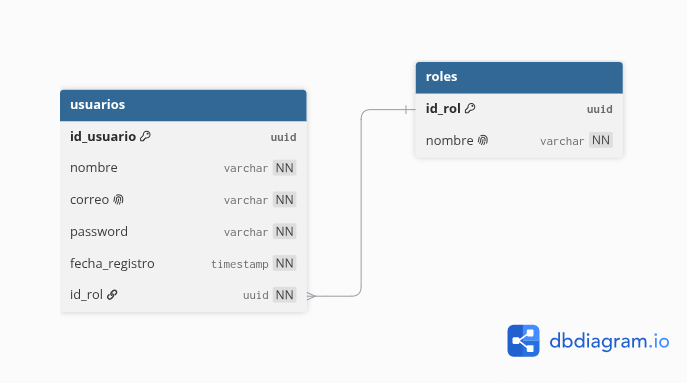
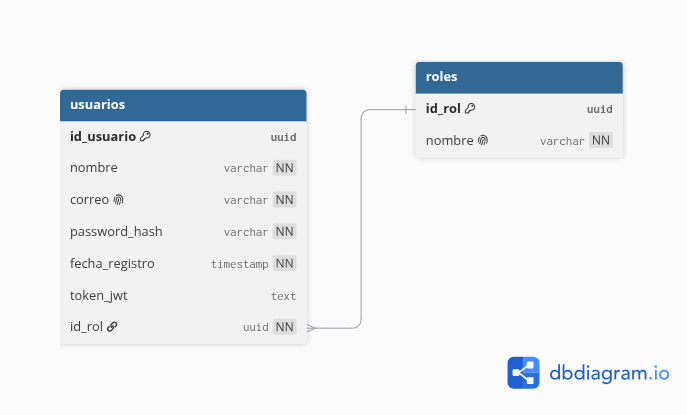
docs:202102771:Diagrama Corregido

diff --git a/Practica1/Doc/ER/DiagramasER.md b/Practica1/Doc/ER/DiagramasER.md
@@ -9,7 +9,7 @@ Los dominios definidos fueron los siguientes:
 - Manejo de funciones y cartelera
 - Manejo de reservas y asientos
 - Manejo de pagos
-- Manejo de notificaciones
+- Manejo de ubicaciones
 
 Para la elaboración de los diagramas entidad-relación se utilizó la herramienta dbdiagram.io, permitiendo modelar de forma visual las entidades, relaciones y restricciones definidas para cada servicio.
 
@@ -61,6 +61,7 @@ Responsabilidades:
 * Mantener información básica del usuario
 * Asociar usuarios a un rol específico
 * Proporcionar identificadores únicos utilizados por otros servicios
+* Mantener tokens de autenticación activos
 
 Los usuarios registrados dentro de esta tabla podrán interactuar con las funcionalidades principales del sistema, como realizar reservas, efectuar pagos y recibir notificaciones.
 
@@ -71,6 +72,7 @@ Campos principales almacenados:
 * Correo electrónico
 * Contraseña cifrada
 * Fecha de registro
+* Token JWT
 * Rol asociado
 
 Relación:
@@ -534,127 +536,7 @@ Confirmar compra
 
 La separación de este servicio permite mantener aislada la lógica financiera, facilitando futuras modificaciones o integraciones sin afectar el resto de componentes del sistema.
 
-### 5. Manejo de Notificaciones
-
-Para la comunicación con los usuarios se implementó un servicio independiente encargado de generar y enviar notificaciones relacionadas con eventos importantes dentro de la plataforma.
-
-Este servicio funciona de manera desacoplada, consumiendo información generada por otros módulos y notificando cambios relevantes a los usuarios registrados.
-
-Las tablas utilizadas para este módulo fueron:
-
-* Plantillas
-* Notificaciones
-
-![alt text](05-ER_NOTIFICACIONES.png)
-
-#### Tabla Plantillas
-
-La tabla **plantillas** almacena estructuras reutilizables para los mensajes generados dentro del sistema.
-
-Responsabilidades:
-
-* Estandarizar mensajes enviados
-* Reutilizar contenido frecuente
-* Facilitar generación automática de mensajes
-
-Ejemplos de plantillas:
-
-* Pago Aprobado
-* Reserva Confirmada
-* Compra Rechazada
-* Boleto Generado
-
-Relación:
-
-```text id="m2x8gh"
-Plantillas (1) -------- (N) Notificaciones
-```
-
----
-
-#### Tabla Notificaciones
-
-La tabla **notificaciones** representa cada mensaje generado y enviado hacia los usuarios.
-
-Responsabilidades:
-
-* Registrar envíos realizados
-* Mantener historial de notificaciones
-* Asociar mensajes con usuarios
-* Controlar estado de envío
-
-Estados posibles:
-
-* Pendiente
-* Enviada
-* Error
-
-Información almacenada:
-
-* Usuario asociado
-* Plantilla utilizada
-* Estado del envío
-* Fecha de creación
-
-Relación:
-
-```text id="d4j7ts"
-Plantillas (1) -------- (N) Notificaciones
-```
-
----
-
-#### Relación con otros servicios
-
-Este servicio recibe información generada por otros módulos utilizando identificadores externos.
-
-Servicios relacionados:
-
-* Servicio de Usuarios → obtiene información del cliente
-* Servicio de Reservas → recibe confirmaciones o expiraciones
-* Servicio de Pagos → recibe estados de pago
-* Servicio de Cartelera → utiliza información relacionada con funciones y boletos
-
-Este desacoplamiento permite que las notificaciones funcionen independientemente del resto del sistema.
-
----
-
-#### Eventos que generan notificaciones
-
-Algunos eventos importantes procesados por este servicio son:
-
-```text id="u4h5zv"
-Reserva confirmada
-
-Reserva expirada
-
-Pago aprobado
-
-Pago rechazado
-
-Boleto generado
-```
-
----
-
-#### Flujo general de notificaciones
-
-```text id="w9j1kr"
-Evento recibido
-↓
-Seleccionar plantilla
-↓
-Construir mensaje
-↓
-Enviar notificación
-↓
-Guardar resultado
-```
-
-La separación de este servicio permite centralizar toda la lógica relacionada con comunicación hacia usuarios, facilitando futuras ampliaciones o cambios en los mecanismos de envío.
-
-
-### 6. Manejo de Locaciones
+### 5. Manejo de Locaciones
 
 Para la administración de ubicaciones físicas se implementó un servicio independiente encargado de gestionar la información relacionada con ciudades y complejos cinematográficos disponibles dentro de la plataforma.
 
@@ -738,4 +620,6 @@ Consumir desde otros servicios
 ```
 
 El objetivo principal de este servicio es centralizar la información relacionada con ubicaciones físicas, facilitando futuras expansiones geográficas y manteniendo independencia entre dominios.
+
+
 [Volver a Documentacion](../Documentación.md)
